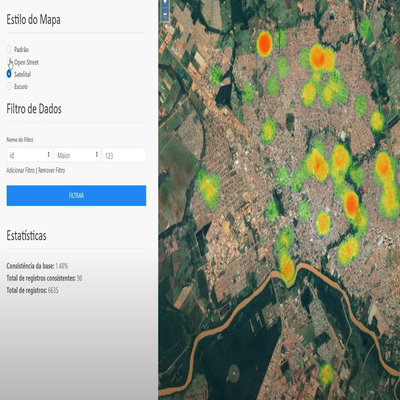
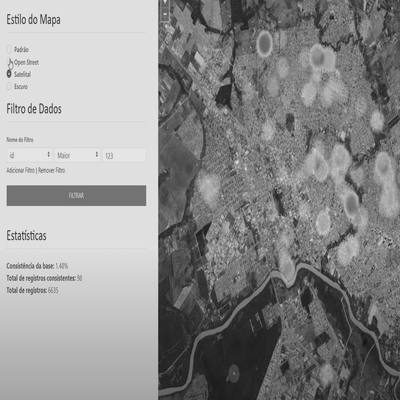
Ajustes

diff --git a/src/App.js b/src/App.js
@@ -1,14 +1,21 @@
 import './App.css';
 import html from './img/html.png';
+import htmlPB from './img/htmlPB.png';
 import css from './img/css.png';
+import cssPB from './img/cssPB.png';
 import js from './img/js.png';
+import jsPB from './img/jsPB.png';
 import react from './img/react-logo-1.png';
+import reactPB from './img/react-logo-1PB.png';
 import ts from './img/Typescript.png';
+import tsPB from './img/TypescriptPB.png';
 import csharp from './img/csharp.png';
+import csharpPB from './img/csharpPB.png';
 import postgre from './img/postgres.jpg';
 import construcao from './img/emConstrucao.svg';
 import expo from './img/expo.png';
 import node from './img/node.png';
+import nodePB from './img/nodePB.png';
 import express from './img/express.png';
 import passApp from './img/passApp.png';
 import heatmap from './img/heatmap.png';
@@ -70,8 +77,8 @@ function App() {
                 Projeto App Gerador de senhas com caracteres especiais. Escolha quantos caracteres terá sua senha que salvamos para você.
               </p>
               <div className="projetoIcon">
-                <img className="projetoIcon img" src={react} alt="react/react-native" />
-                <img className='projetoIcon img' src={js} alt="js" />
+                <img className="projetoIcon img" src={reactPB} alt="react/react-native" />
+                <img className='projetoIcon img' src={jsPB} alt="js" />
                 <img className='projetoIcon img' src={expo} alt="expo" />
               </div>
             </div>
@@ -94,10 +101,10 @@ function App() {
                 Produção de um Heatmap em equipe. Solicite acesso.
               </p>
               <div className="projetoIcon">
-                <img className="projetoIcon img" src={html} alt="react/react-native" />
-                <img className='projetoIcon img' src={css} alt="js" />
-                <img className='projetoIcon img' src={js} alt="expo" />
-                <img className='projetoIcon img' src={node} alt="expo" />
+                <img className="projetoIcon img" src={htmlPB} alt="react/react-native" />
+                <img className='projetoIcon img' src={cssPB} alt="js" />
+                <img className='projetoIcon img' src={jsPB} alt="expo" />
+                <img className='projetoIcon img' src={nodePB} alt="expo" />
                 <img className='projetoIcon img' src={express} alt="expo" />
                 {/* <img className='projetoIcon img' src={postgre} alt="expo" /> */}
               </div>
@@ -120,9 +127,9 @@ function App() {
                 Projeto visa publicações e atualizações dos meus projetos dento de um contexto de portifólio. Sempre em construção.
               </p>
               <div className="projetoIcon">
-                <img className="projetoIcon img" src={react} alt="react/react-native" />
-                <img className='projetoIcon img' src={js} alt="js" />
-                <img className='projetoIcon img' src={css} alt="css" />
+                <img className="projetoIcon img" src={reactPB} alt="react/react-native" />
+                <img className='projetoIcon img' src={jsPB} alt="js" />
+                <img className='projetoIcon img' src={cssPB} alt="css" />
               </div>
               {/*               
               <h3>#react-native &nbsp; #JS &nbsp; #EXPO &nbsp;</h3> */}
@@ -139,8 +146,8 @@ function App() {
         <div className="about" id="sobre_mim">
           <h1>Sobre mim</h1>
           <p>
-            Olá visitante!
-            Segue um breve resumo sobre minha jornada!
+            Olá visitante, segue um breve resumo sobre minha jornada!
+            <br />
             Iniciei minha jornada em 2017, onde tive meus primeiros contato com a programação com cursos livres, e uma ajuda imensa de amigos que estavam determinados a compartilhar seus conhecimentos.
             Sempre tive muito apresso por tecnologia, sempre me encantou entender , e entender integralmente, como essas maravilhas tecnológicas funcionam por trás.
             Em 2019 me Graduei em Direito pelo Centro Universitário Newton Paiva, aprovado pelo Exame XXX Nacional da OAB, sim, isso meu contato com a programação ocorreu durante meus ultimos semestres de faculade e aprovação no exame da ordem.
